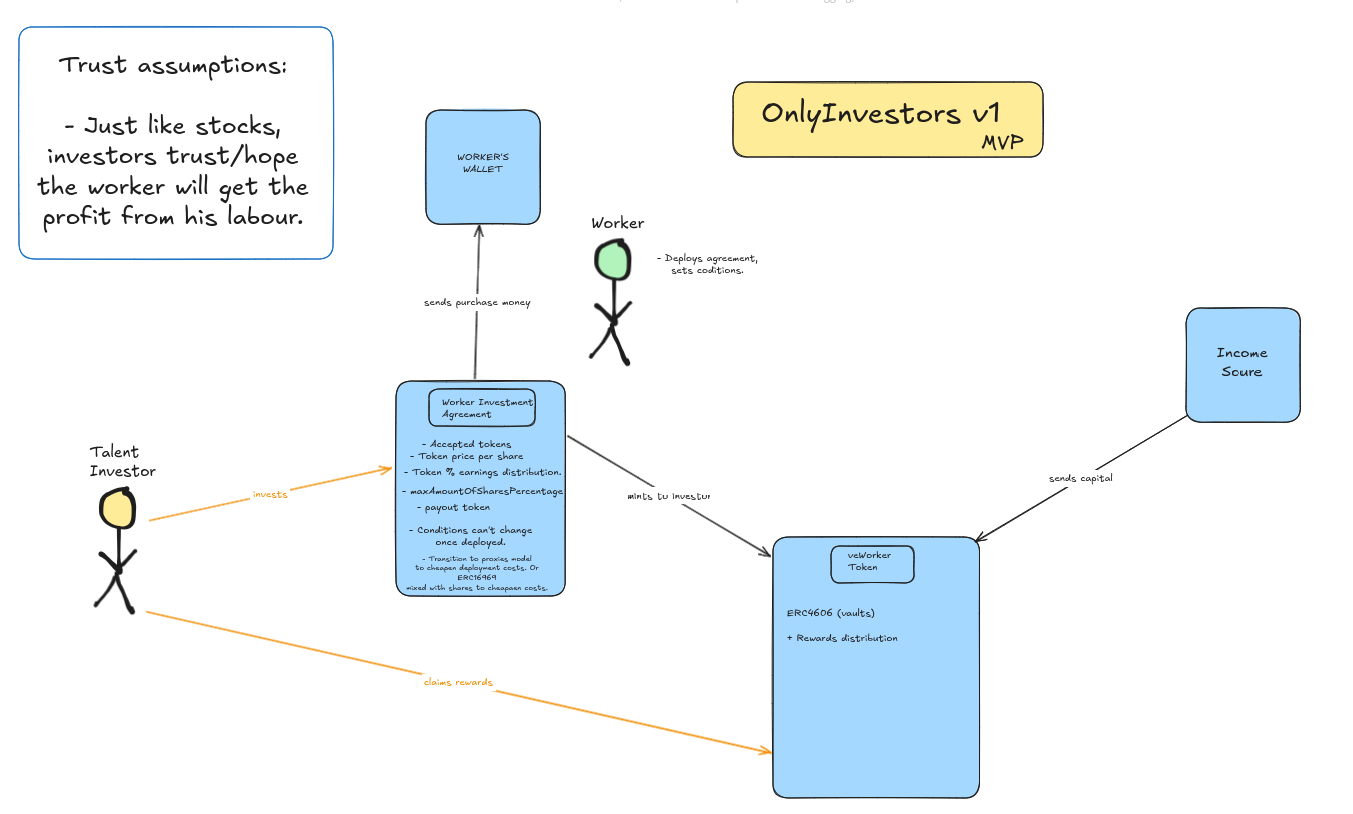
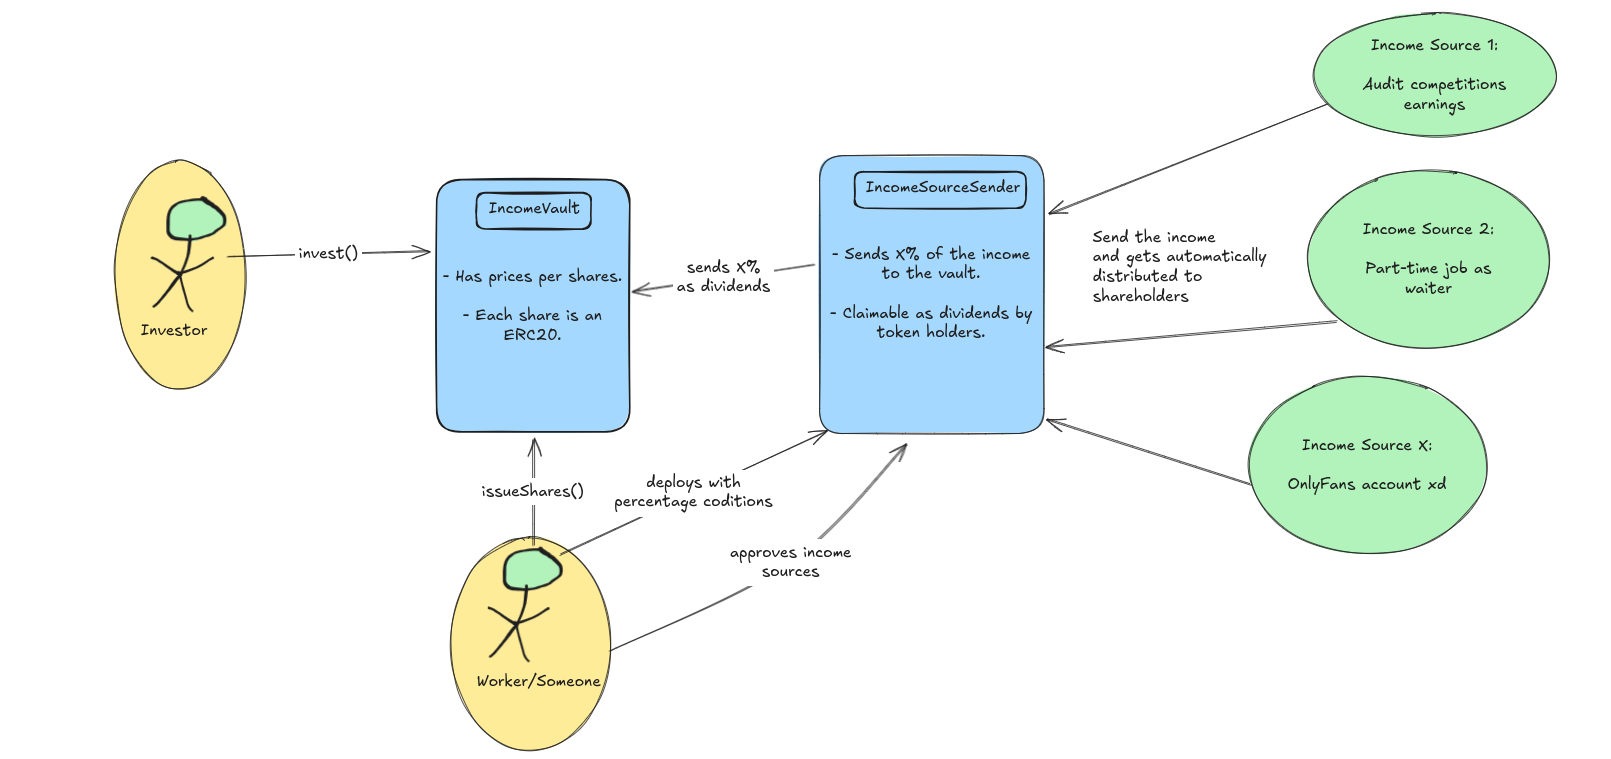
docs improved, v1 design finihed I guessed

diff --git a/README.md b/README.md
@@ -1,35 +1,56 @@
-# Only-Investors 🧑🦲📈💰
-### Fostering talent.
+# Only-Investors 🧑🦲📈💰  
+### Fostering Talent
 
 <img src="./imgResources/logo.webp" alt="only-investors-logo" width="150">
 
 ---
 
-Because **financial stability** allows you to plan a **better future**. Here I present:
+## Because Financial Stability Builds a Better Future  
 
-Only Investors
-(Motto: Fostering talent)
+Welcome to **Only Investors**, a platform designed to enable investments in **people as income sources**.  
 
-A platform to invest on People (generally, income sources).
+Our Motto: *Fostering Talent.*  
 
-This is how it works, simple, powerful, beautiful:
+### How It Works  
 
-1.- Some worker (let’s say a smart contract auditor) creates its own rewards token.
+Only Investors provides a simple, powerful, and beautiful way to invest in individual talent and earn from their success:  
 
-2.- You as an investor can buy that token. (the worker gets some income, the worker sets the price)
+1. **The Worker Creates Tokens**:  
+   - A worker (e.g., a smart contract auditor) issues their own **reward tokens** to represent a share of their future income.  
 
-3.- You will get X% of the worker’s future income which will be distributed to reward token holders. (auditors usually receive their payouts at a certain address, the address can perfectly be a smart contract that redirects X% of the funds to investors to assure payouts)
+2. **Investors Buy Tokens**:  
+   - As an investor, you can purchase these tokens, providing the worker with upfront income to enhance their capabilities and opportunities.  
 
-Workers will set the conditions of profitability of their future work, and if you deem them nice, just buy the tokens, get your share and wait until your investment yields profit. In the meanwhile, the worker will have more capital to invest on himself, his work and overall leading to a more thoughtful and cared product created by a relaxed and stable worker.
-
-Sure the worker can always laze around and do a shit, but this is like buying a stock, giving money to the company in expect of future returns, the company can just do shit too.
-
-Let’s democratize access to capital at an individual level and improve the capital efficiency while promoting happier talented workers around the world!
-
-<img src="./imgResources/v1-architechture.png" alt="v1-architecture">
+3. **Shared Earnings**:  
+   - Token holders receive a percentage (**X%**) of the worker’s future income. For example, payouts directed to the worker's address can automatically route a portion of the funds to token holders via a smart contract, ensuring transparency and accountability.  
 
 ---
 
-## Project Goal
+### Why It Matters  
 
-This aims to be public-infrastructure to decentralize investment on income sources.
+Workers define their own terms, and you decide whether to invest based on their proposed profitability and potential. Here’s why this model benefits everyone:  
+
+- **For Investors**: Gain a stake in someone’s future success, diversifying your portfolio with income-based assets.  
+- **For Workers**: Secure the financial stability to invest in themselves, creating better products and opportunities without the pressure of immediate returns.  
+
+Like buying stock in a company, you’re investing in someone’s potential. Sure, there’s risk—people, like companies, might not perform as expected. But with this model, we democratize access to capital at an individual level, improve efficiency, and create opportunities for talented workers worldwide.  
+
+---
+
+### Vision: A More Thoughtful World  
+
+Imagine a world where talented individuals can focus on their craft, free from financial strain, and investors earn returns by supporting meaningful work. That’s the future Only Investors aims to create: **happier, more relaxed, and more productive workers delivering better results.**  
+
+<img src="./imgResources/v1-architechture.png" alt="v1-architecture">
+
+See more technical details in the [Developer Docs](./developerDocs/README.md).
+
+---
+
+## Project Goal  
+
+To establish a decentralized public infrastructure for investing in income sources, empowering individuals, and optimizing capital efficiency.  
+
+---
+
+Join us in shaping a fairer, more collaborative future for talent and investment!  

diff --git a/developerDocs/README.md b/developerDocs/README.md
@@ -1,0 +1,26 @@
+
+## Investing 📈
+
+1. Call `IncomeValt::invest()`
+2. After `s_investmentStartDelay` has passed (min 1 day) -> `IncomeVault::finalizeInvestment()`
+3. Next time a dividend is payed you will get your part.
+
+## Distribution 💸
+
+1. Every `X` time, an approved income source can call: `IncomeSourceSender::distributeIncome()`
+2. Which will update the dividends accrued per share on `IncomeVault`.
+
+## Claiming 💰
+
+1. In between dividends distribution rounds you must call `IncomeVault::collectDividend()`.
+2. If not you will lose it, and it will be claimable by the owner of the `IncomeVault`.
+3. Recommended having an automated keeper bot for this. (minimum time elapsed between distributions is 1 day)
+
+## Shares Issuance 📊
+
+1. Call `IncomeVault::issueShares()`
+2. All previous non-sold shares will be applied the same price as the new ones.
+
+## Shares Buyback 📊
+
+1. Just transfer shares back to an address you control.
